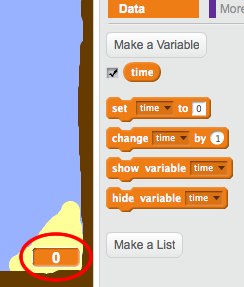
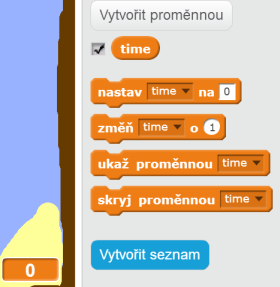
br

diff --git a/cs-CZ/Term 1/Boat Race/Boat Race.md b/cs-CZ/Term 1/Boat Race/Boat Race.md
@@ -58,7 +58,7 @@ Naučíš se jak vytvořit hru, ve které budeš používat myš k navigaci loď
 
 + Co se stane, když loďka doplave ke kurzoru myši?
 
-	Abys tomuto chování zabránil(a) musíš přidat blok `jestliže` {.blockcontrol} tak, aby se loďka pohybovala jen když je dále než 5 pixelů od myši.
+	Abys tomuto chování zabránil(a) musíš přidat blok `když` {.blockcontrol} tak, aby se loďka pohybovala jen když je dále než 5 pixelů od myši.
 
     ```blocks
 		po kliknutí na ⚑
@@ -88,19 +88,19 @@ Nyní může vaše loďka proplouvat dřevěnýma bariérama! Pojďme to opravit
 
 	![screenshot](boat-hit-costume.png)
 
-+ Přidej tento kód k tvojí loďce do bloku `forever` {.blockcontrol}, tak aby loďka narazila, jakmile se dotkne hnědého dřeva:
++ Přidej tento kód k tvojí loďce do bloku `opakuj dokola` {.blockcontrol}, tak aby loďka narazila, jakmile se dotkne hnědého dřeva:
 
 	```blocks
-		if <touching color [#603C15]?> then
-			switch costume to [hit v]
-			say [Noooooo!] for (1) secs
-			switch costume to [normal v]
-			point in direction (0 v)
-			go to x: (-215) y: (-160)
+		když <dotýká se barvy [#603C15]?> tak
+			změň kostým na [hit v]
+			říkej [Neeee!] příštích (1) sekund
+			změň kostým na [normal v]
+			natoč se směrem (0 v)
+			skoč na pozici x: (-215) y: (-160)
 		end
 	```
 
-	Tento kód je ve smyčcce `forever` {.blockcontrol}, takže tvůj kód trvale kontroluje, zda nedochází k nárazu loďky.
+	Tento kód je ve smyčcce `opaku dokola` {.blockcontrol}, takže tvůj kód trvale kontroluje, zda nedochází k nárazu loďky.
 
 + Také musíš zajistit, aby loďka začínala nenabouraná - kostým 'normal'.
 
@@ -111,13 +111,13 @@ Nyní může vaše loďka proplouvat dřevěnýma bariérama! Pojďme to opravit
 ## Ulož projekt { .save }
 
 ## Výhra! {.challenge}
-Přidej další blok s podmínkou `if` {.blockcontrol} do kódu loďky tak, aby hráč vyhrál, když se dostane na ostrov.
+Přidej další blok s podmínkou `když` {.blockcontrol} do kódu loďky tak, aby hráč vyhrál, když se dostane na ostrov.
 
 Když se loďka dostane na žlutý ostrov měla by říci 'YEAH!' a hra se zastaví. K tomu potřebuješ následující kód:
 
 ```blocks
-	say [YEAH!] for (1) secs
-	stop [all v]
+	říkej [YEAH!] příštích (1) sekund
+	zastav [vše v]
 ```
 
 ![screenshot](boat-win.png)
@@ -143,10 +143,10 @@ Přidej do hry časovač proto, aby se hráč snažil dostat do cíle co nejrych
 
 	```blocks
 		po kliknutí na ⚑
-		set [time v] to [0]
-		forever
-			wait (0.1) secs
-			change [time v] by (0.1)
+		nastav [time v] na [0]
+		opakuj dokola
+			čekej (0.1) sekund
+			změň [time v] o (0.1)
 		end
 	```
 
@@ -166,11 +166,11 @@ Nyní je hra moc jednoduchá - přidáme pár věcí aby byla zajímavější.
 
 	![screenshot](boat-boost.png)
 
-+ Nyní je potřeba přidat do cyklu `forever` {.blockcontrol} pár říkazů tak, aby se loďka posunula rychleji o 2 _extra_ kroky, když najede na zryychlovač.
++ Nyní je potřeba přidat do cyklu `opakuj dokola` {.blockcontrol} pár říkazů tak, aby se loďka posunula rychleji o 2 _extra_ kroky, když najede na zryychlovač.
 
 	```blocks
-		if <touching color [#FFFFFF]?> then
-			move (3) steps
+		když <dotýká se barvy [#FFFFFF]?> tak
+			posuň se o (3) kroků
 		end
 	```
 
@@ -184,7 +184,7 @@ Nyní je hra moc jednoduchá - přidáme pár věcí aby byla zajímavější.
 
 	![screenshot](boat-center.png)
 
-+ Přidej kód k bráně tak, aby so otáčela pomalu stále dokola v bloku `forever` {.blockcontrol}.
++ Přidej kód k bráně tak, aby so otáčela pomalu stále dokola v bloku `opakuj dokola` {.blockcontrol}.
 
 + Vyzkoušej si hru. Nyní by se měla objevit brána, která se otáčí a které se musíš vyhnout.
 
@@ -198,7 +198,7 @@ Přidej více překážek, tady je pár nápadů:
 + Můžeš přidat zelený sliz, který hráče zpomalí. Použij blok `wait` {.blockcontrol}:
 
 ```blocks
-	wait (0.01) secs
+	čekej (0.01) sekund
 ````
 
 ![screenshot](boat-algae.png)
@@ -217,7 +217,7 @@ Tyto bloky ti pomůžou:
 Pokud není objekt hnědý musíš přidat následující kód k loďce:
 
 ```blocks
-	if <  <touching color [#603C15]?> or <touching [shark v]?> > then
+	když <  <touching color [#603C15]?> or <touching [shark v]?> > tak
 	end
 ```
 
@@ -239,7 +239,7 @@ Zkusíš změnit hru na závod mezi dvouma hráči?
 + Smaž kód pro kontrolu loďky myší:
 
 ```blocks
-	if < (distance to [mouse-pointer v]) > [5] > then
+	když < (distance to [mouse-pointer v]) > [5] > tak
 		point towards [mouse-pointer v]
 		move (1) steps
 	end
@@ -250,7 +250,7 @@ Zkusíš změnit hru na závod mezi dvouma hráči?
 Toto je kód pro posun loďky dopředu:
 
 ```blocks
-	if < key [up arrow v] pressed? > then
+	když < key [up arrow v] pressed? > tak
 		move (1) steps
 	end
 ```
